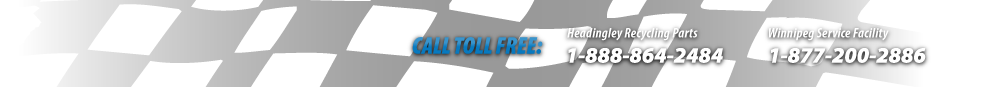
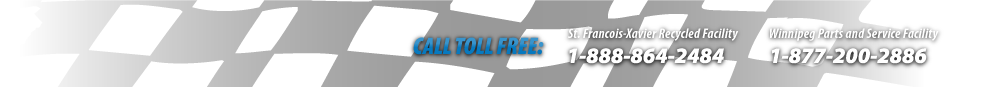
Changes

diff --git a/index.html b/index.html
@@ -68,7 +68,7 @@
             Direct Auto soon became an industry leader and saw the need for an alternative to factory OEM parts. This resulted in the acquisition of a leading Winnipeg aftermarket jobber parts supplier and the launch of a modern store on Wall Street.
           </p>
           <p>
-            In 2002, Direct Auto expanded its offering to include rebuilt engines and transmissions. Under the Winnipeg Engine & Trans brand, this provided customers with more choices, making Direct Auto Parts your one-stop shop for all your auto parts needs.
+            In 2002, Direct Auto expanded its offering to include rebuilt engines and transmissions. Under the Winnipeg Engine & Trans brand, this provided customers with even more choices, making Direct Auto Parts your one-stop shop for all your auto parts needs.
           </p>
         </div>
         <div id="left-column-right" style="margin-left:0px;">
@@ -1755,14 +1755,15 @@
       <div id="footer-logo"></div>
       <div id="locations">
         <ul class="locations">
-          <li><span class="strong">HEADINGLEY<br>RECYCLING PARTS:</span></li>
+          <li><span class="strong">HEADINGLEY<br>RECYCLED PARTS:</span></li>
           <li>#155 Highway 1</li>
           <li><span class="stronglabel">Phone:</span> (204) 864-2000</li>
           <li><span class="stronglabel">Fax:</span> (204) 864-2700</li>
           <li><span class="stronglabel">Hours:</span>  Mon-Fri  8 am - 5:30 pm</li>
+          <li class="last">Closed Long Weekends</li>
         </ul>
         <ul class="locations">
-          <li><span class="strong">WINNIPEG<br>SERVICE FACILITY:</span></li>
+          <li><span class="strong">WINNIPEG<br>PARTS AND SERVICE FACILITY:</span></li>
           <li>673 Wall Street, Winnipeg MB</li>
           <li><span class="stronglabel">Phone:</span> (204) 786-2000</li>
           <li><span class="stronglabel">Fax:</span> (204) 772-6682</li>

diff --git a/links.html b/links.html
@@ -48,7 +48,7 @@
             <a href="http://www.autorecyclers.ca/" target="_blank" class="link-button">Auto Recyclers<img class="arrow" src="images/arrow.png"/></a>
           </div>
         <div id="left-column-right">
-          <h4>Direct Auto Parts employs over 25 full-time employees, and is a member of the following organizations:</h4>
+          <h4>Direct Auto Parts is a family-based Manitoba company that employs over 25 full-time employees, and is a member of the following organizations:</h4>
           <div id ="associations">
             <ul class="associations">
               <li class="association-list"><a href="http://" target="_blank">Automotive Industries Association (AIA) of Canada</a></li>
@@ -108,14 +108,15 @@
       <div id="footer-logo"></div>
       <div id="locations">
         <ul class="locations">
-          <li><span class="strong">HEADINGLEY<br>RECYCLING PARTS:</span></li>
+          <li><span class="strong">HEADINGLEY<br>RECYCLED PARTS:</span></li>
           <li>#155 Highway 1</li>
           <li><span class="stronglabel">Phone:</span> (204) 864-2000</li>
           <li><span class="stronglabel">Fax:</span> (204) 864-2700</li>
           <li><span class="stronglabel">Hours:</span>  Mon-Fri  8 am - 5:30 pm</li>
+          <li class="last">Closed Long Weekends</li>
         </ul>
         <ul class="locations">
-          <li><span class="strong">WINNIPEG<br>SERVICE FACILITY:</span></li>
+          <li><span class="strong">WINNIPEG<br>PARTS AND SERVICE FACILITY:</span></li>
           <li>673 Wall Street, Winnipeg MB</li>
           <li><span class="stronglabel">Phone:</span> (204) 786-2000</li>
           <li><span class="stronglabel">Fax:</span> (204) 772-6682</li>

diff --git a/new-arrivals.html b/new-arrivals.html
@@ -46,7 +46,7 @@
       <div id="columns">
         <div id="left-column" class="pictures">
           <h1 class="main-headline" style="margin-left:22px;">New Arrivals</h1>
-          <iframe src="http://daimages.directauto.ca" width="670" height="550"></iframe>
+          <iframe src="http://daimages.innovatisinc.ca" width="670" height="550"></iframe>
         </div>
         <div id="right-column">
           <h2 class="blue">Our Sales Team</h2>
@@ -94,14 +94,15 @@
       <div id="footer-logo"></div>
       <div id="locations">
         <ul class="locations">
-          <li><span class="strong">HEADINGLEY<br>RECYCLING PARTS:</span></li>
+          <li><span class="strong">HEADINGLEY<br>RECYCLED PARTS:</span></li>
           <li>#155 Highway 1</li>
           <li><span class="stronglabel">Phone:</span> (204) 864-2000</li>
           <li><span class="stronglabel">Fax:</span> (204) 864-2700</li>
           <li><span class="stronglabel">Hours:</span>  Mon-Fri  8 am - 5:30 pm</li>
+          <li class="last">Closed Long Weekends</li>
         </ul>
         <ul class="locations">
-          <li><span class="strong">WINNIPEG<br>SERVICE FACILITY:</span></li>
+          <li><span class="strong">WINNIPEG<br>PARTS AND SERVICE FACILITY:</span></li>
           <li>673 Wall Street, Winnipeg MB</li>
           <li><span class="stronglabel">Phone:</span> (204) 786-2000</li>
           <li><span class="stronglabel">Fax:</span> (204) 772-6682</li>

diff --git a/contact-us.html b/contact-us.html
@@ -109,14 +109,15 @@
       <div id="footer-logo"></div>
       <div id="locations">
         <ul class="locations">
-          <li><span class="strong">HEADINGLEY<br>RECYCLING PARTS:</span></li>
+          <li><span class="strong">HEADINGLEY<br>RECYCLED PARTS:</span></li>
           <li>#155 Highway 1</li>
           <li><span class="stronglabel">Phone:</span> (204) 864-2000</li>
           <li><span class="stronglabel">Fax:</span> (204) 864-2700</li>
           <li><span class="stronglabel">Hours:</span>  Mon-Fri  8 am - 5:30 pm</li>
+          <li class="last">Closed Long Weekends</li>
         </ul>
         <ul class="locations">
-          <li><span class="strong">WINNIPEG<br>SERVICE FACILITY:</span></li>
+          <li><span class="strong">WINNIPEG<br>PARTS AND SERVICE FACILITY:</span></li>
           <li>673 Wall Street, Winnipeg MB</li>
           <li><span class="stronglabel">Phone:</span> (204) 786-2000</li>
           <li><span class="stronglabel">Fax:</span> (204) 772-6682</li>

diff --git a/faq.html b/faq.html
@@ -154,14 +154,15 @@
       <div id="footer-logo"></div>
       <div id="locations">
         <ul class="locations">
-          <li><span class="strong">HEADINGLEY<br>RECYCLING PARTS:</span></li>
+          <li><span class="strong">HEADINGLEY<br>RECYCLED PARTS:</span></li>
           <li>#155 Highway 1</li>
           <li><span class="stronglabel">Phone:</span> (204) 864-2000</li>
           <li><span class="stronglabel">Fax:</span> (204) 864-2700</li>
           <li><span class="stronglabel">Hours:</span>  Mon-Fri  8 am - 5:30 pm</li>
+          <li class="last">Closed Long Weekends</li>
         </ul>
         <ul class="locations">
-          <li><span class="strong">WINNIPEG<br>SERVICE FACILITY:</span></li>
+          <li><span class="strong">WINNIPEG<br>PARTS AND SERVICE FACILITY:</span></li>
           <li>673 Wall Street, Winnipeg MB</li>
           <li><span class="stronglabel">Phone:</span> (204) 786-2000</li>
           <li><span class="stronglabel">Fax:</span> (204) 772-6682</li>

diff --git a/css/style.css b/css/style.css
@@ -80,7 +80,7 @@ h6 {
 /*********Header Styles****************/
 
 #header-background {
-  width:930px;
+  width:983px;
   margin: auto;
 }
 
@@ -91,7 +91,7 @@ h6 {
   }
 
 #call-toll-free {
-  width:930px;
+  width:983px;
   height:90px;
   background-image: url(../images/checkered-flag.png);
   background-repeat:no-repeat;
